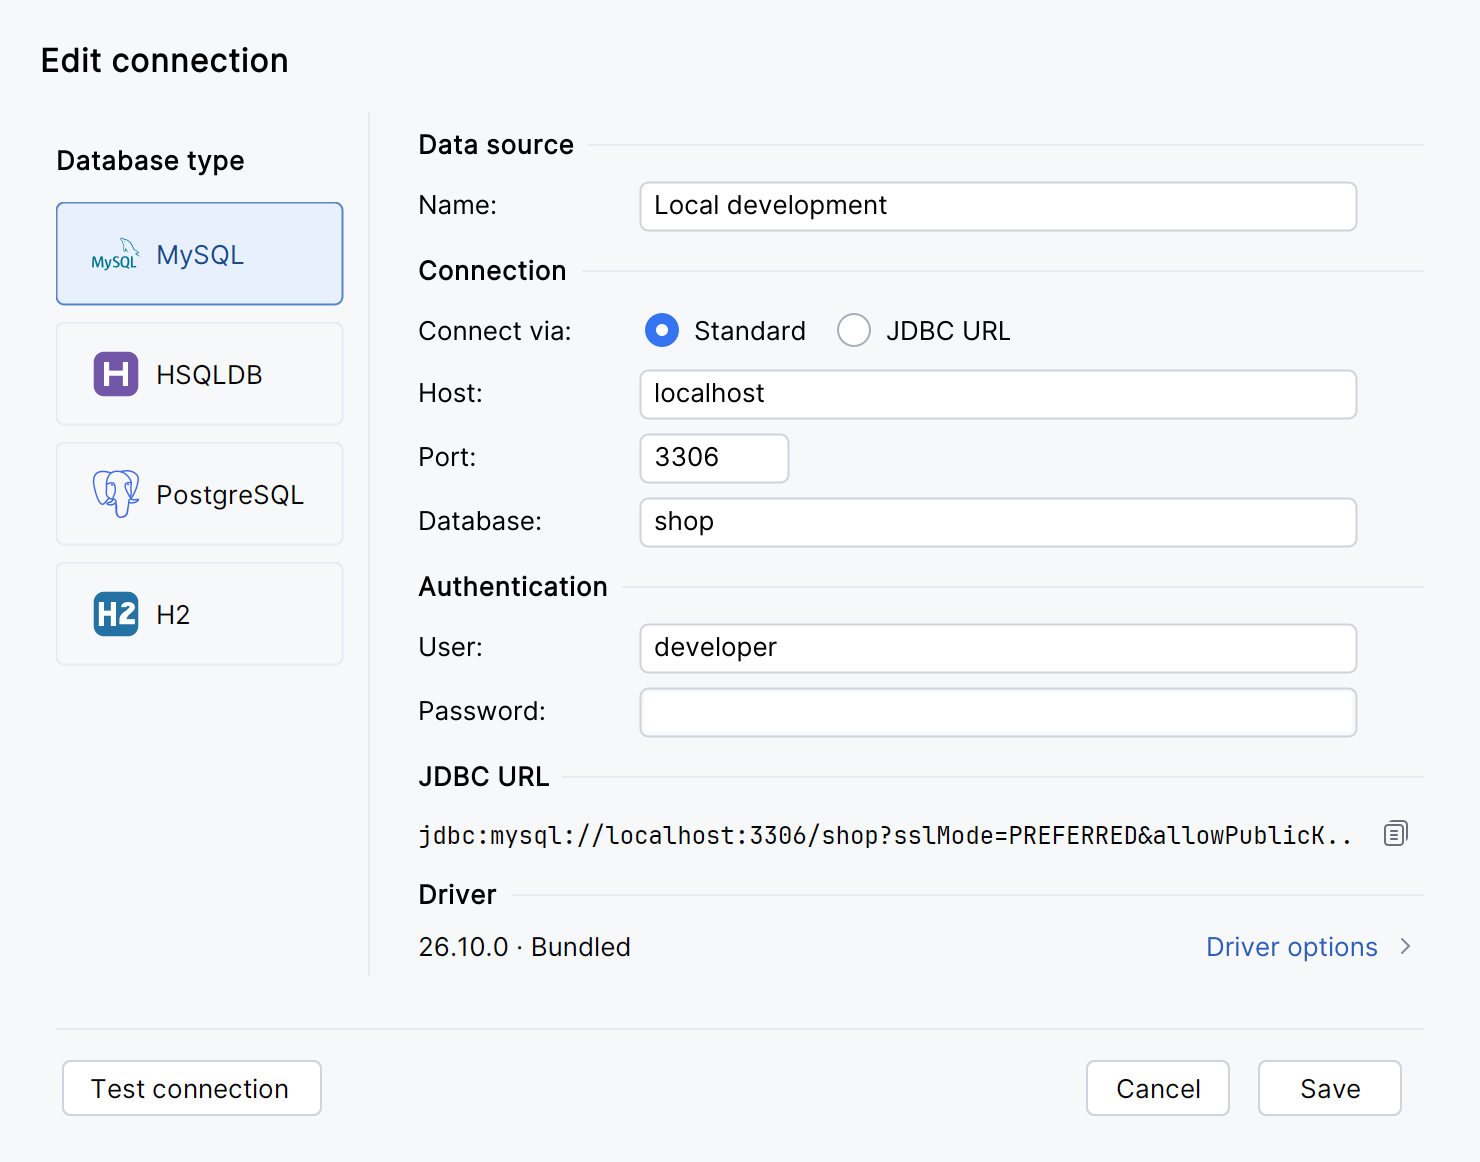
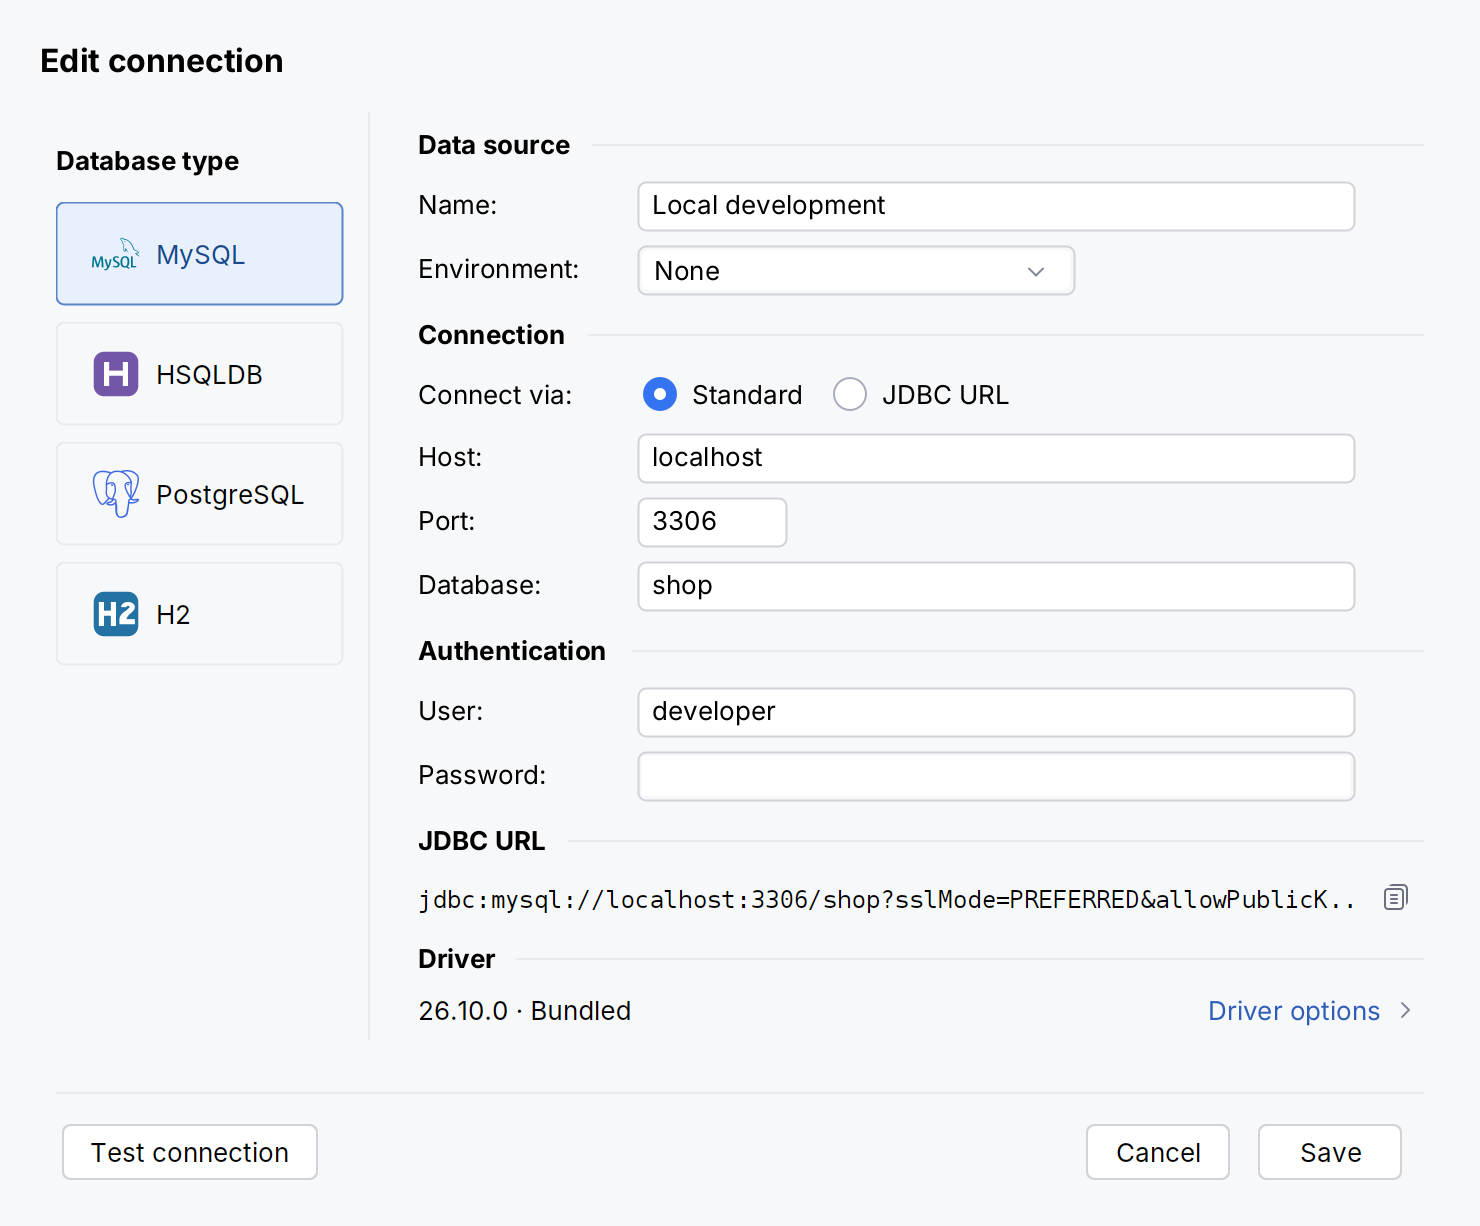
List SQL scripts in Recent and refresh the README explorer image
Running a script records it as a recent item; reopening it from the
explorer or Search Everywhere shows the script dialog with that file
chosen. The explorer-home and connection-dialog screenshots are
rendered on the IntelliJ 2026.2.3 Islands Light baseline.

Claude-Session: https://claude.ai/code/session_01VhXWEHxjUo9GEHXn9BveB5

diff --git a/src/main/java/com/segfault03/ideadb/state/RecentItemsState.java b/src/main/java/com/segfault03/ideadb/state/RecentItemsState.java
@@ -8,7 +8,7 @@ import java.util.ArrayList;
 import java.util.List;
 import java.util.Objects;
 
-/** Tables, views and consoles recently opened in this project, newest first. Local workspace state, never shared. */
+/** Tables, views, consoles and SQL scripts recently opened in this project, newest first. Local workspace state, never shared. */
 @State(name = "LatticeRecentItems", storages = @Storage(StoragePathMacros.WORKSPACE_FILE))
 public final class RecentItemsState implements PersistentStateComponent<RecentItemsState.State> {
     public static final int LIMIT = 50;
@@ -16,7 +16,7 @@ public final class RecentItemsState implements PersistentStateComponent<RecentIt
 
     public interface Listener { void recentItemsChanged(); }
 
-    public enum Kind { TABLE, CONSOLE }
+    public enum Kind { TABLE, CONSOLE, SCRIPT }
 
     public static final class Item {
         public Kind kind = Kind.TABLE;
@@ -28,6 +28,8 @@ public final class RecentItemsState implements PersistentStateComponent<RecentIt
         public String name;
         /** The table type the database reported, for example TABLE or VIEW. */
         public String tableType;
+        /** Absolute path of a script file; null otherwise. */
+        public String path;
 
         public Item() {}
 
@@ -44,10 +46,16 @@ public final class RecentItemsState implements PersistentStateComponent<RecentIt
             return item;
         }
 
+        public static Item script(String connectionId, String database, String path) {
+            Item item = new Item();
+            item.kind = Kind.SCRIPT; item.connectionId = connectionId; item.database = database; item.path = path;
+            return item;
+        }
+
         /** Two entries are the same place regardless of the table type reported when each was opened. */
         boolean samePlace(Item other) {
             return kind == other.kind && Objects.equals(connectionId, other.connectionId) && Objects.equals(database, other.database)
-                    && Objects.equals(catalog, other.catalog) && Objects.equals(schema, other.schema) && Objects.equals(name, other.name);
+                    && Objects.equals(catalog, other.catalog) && Objects.equals(schema, other.schema) && Objects.equals(name, other.name) && Objects.equals(path, other.path);
         }
     }
 

diff --git a/src/main/java/com/segfault03/ideadb/dialog/SqlScriptPanel.java b/src/main/java/com/segfault03/ideadb/dialog/SqlScriptPanel.java
@@ -258,6 +258,8 @@ public final class SqlScriptPanel extends JPanel implements Disposable {
     // ---- loading and checking ---------------------------------------------------------------------------------------
 
     private String loadedPath = "";
+    /** The absolute path of the loaded script, recorded as a recent item when it runs. */
+    private String loadedFile;
 
     private void loadIfChanged() {
         String text = path.getText().strip();
@@ -265,6 +267,7 @@ public final class SqlScriptPanel extends JPanel implements Disposable {
         loadedPath = text;
         resumeIndex = -1; // a different file never resumes another file's run
         fileFacts = "";
+        loadedFile = null;
         if (text.isEmpty()) { setScript(null, null); return; }
         File file = new File(text.startsWith("~" + File.separator) ? System.getProperty("user.home") + text.substring(1) : text);
         if (!file.isFile()) { setScript(null, "No file at this path"); return; }
@@ -281,6 +284,7 @@ public final class SqlScriptPanel extends JPanel implements Disposable {
                 charset = java.nio.charset.StandardCharsets.UTF_8;
             }
             fileFacts = size(file.length()) + ", " + charset.displayName();
+            loadedFile = file.getAbsolutePath();
             setScript(content.replace("\r\n", "\n"), null);
         } catch (IOException failure) {
             setScript(null, "Could not read the file: " + failure.getMessage());
@@ -369,6 +373,9 @@ public final class SqlScriptPanel extends JPanel implements Disposable {
         SqlScript running = new SqlScript(full.text(), full.statements().subList(from, full.statements().size()));
         runStart = from;
         String namespace = selectedNamespace();
+        if (project != null && !project.isDisposed() && loadedFile != null)
+            com.segfault03.ideadb.state.RecentItemsState.getInstance(project).record(
+                    com.segfault03.ideadb.state.RecentItemsState.Item.script(config.getId(), namespace, loadedFile));
         var options = new SqlScriptRunner.Options(stopOnError.isSelected(), singleTransaction.isSelected());
         SqlScriptRunner current = new SqlScriptRunner();
         runner = current;

diff --git a/src/main/java/com/segfault03/ideadb/ui/ExplorerRecentSection.java b/src/main/java/com/segfault03/ideadb/ui/ExplorerRecentSection.java
@@ -30,7 +30,7 @@ import java.util.Map;
 import java.util.function.Function;
 import java.util.stream.Collectors;
 
-/** The explorer's Recent section: the last tables, views and consoles opened in this project, above the connection tree. */
+/** The explorer's Recent section: the last tables, views, consoles and scripts opened in this project, above the connection tree. */
 final class ExplorerRecentSection extends JPanel {
     static final int VISIBLE = 4;
     private static final String COLLAPSED = "lattice.explorer.recentCollapsed";
@@ -40,11 +40,12 @@ final class ExplorerRecentSection extends JPanel {
         String title() { return com.segfault03.ideadb.search.LatticeSearch.recentTitle(item); }
         Icon icon() {
             if (item.kind == RecentItemsState.Kind.CONSOLE) return Icons.CONSOLE;
+            if (item.kind == RecentItemsState.Kind.SCRIPT) return Icons.SQL_FILE;
             return new TableMetadata(null, null, item.name, item.tableType).isView() ? Icons.VIEW : Icons.TABLE;
         }
         String detail() {
             String where = item.database == null || item.database.isBlank() ? connection.getName() : connection.getName() + " · " + item.database;
-            return title() + " in " + where;
+            return item.kind == RecentItemsState.Kind.SCRIPT ? item.path + " on " + where : title() + " in " + where;
         }
     }
 
@@ -190,6 +191,8 @@ final class ExplorerRecentSection extends JPanel {
         RecentItemsState.Item item = entry.item();
         DatabaseEditorManager editors = DatabaseEditorManager.getInstance(project);
         if (item.kind == RecentItemsState.Kind.CONSOLE) editors.openConsole(entry.connection(), item.database, null);
+        else if (item.kind == RecentItemsState.Kind.SCRIPT)
+            SwingUtilities.invokeLater(() -> com.segfault03.ideadb.dialog.SqlScriptDialog.show(project, entry.connection(), item.database, item.path));
         else editors.openTableData(entry.connection(), item.database, new TableMetadata(item.catalog, item.schema, item.name, item.tableType));
     }
 

diff --git a/src/main/java/com/segfault03/ideadb/search/LatticeSearchContributor.java b/src/main/java/com/segfault03/ideadb/search/LatticeSearchContributor.java
@@ -68,7 +68,11 @@ public final class LatticeSearchContributor implements SearchEverywhereContribut
         DatabaseEditorManager editors = DatabaseEditorManager.getInstance(project);
         switch (item.kind()) {
             case RECENT -> {
-                if (item.table() == null || console) editors.openConsole(item.connection(), item.database(), null);
+                RecentItemsState.Item recent = item.recent();
+                if (recent.kind == RecentItemsState.Kind.SCRIPT && !console) SwingUtilities.invokeLater(() -> {
+                    if (!project.isDisposed()) com.segfault03.ideadb.dialog.SqlScriptDialog.show(project, item.connection(), item.database(), recent.path);
+                });
+                else if (item.table() == null || console) editors.openConsole(item.connection(), item.database(), null);
                 else editors.openTableData(item.connection(), item.database(), copy(item.table()));
             }
             case TABLE -> {
@@ -114,7 +118,8 @@ public final class LatticeSearchContributor implements SearchEverywhereContribut
 
     private static Icon icon(LatticeSearch.Item item) {
         return switch (item.kind()) {
-            case RECENT -> item.table() == null ? Icons.CONSOLE : item.isView() ? Icons.VIEW : Icons.TABLE;
+            case RECENT -> item.recent().kind == RecentItemsState.Kind.SCRIPT ? Icons.SQL_FILE
+                    : item.table() == null ? Icons.CONSOLE : item.isView() ? Icons.VIEW : Icons.TABLE;
             case TABLE -> item.isView() ? Icons.VIEW : Icons.TABLE;
             case CONNECTION -> Icons.dataSource(item.type(), 16);
             case CONSOLE -> Icons.CONSOLE;

diff --git a/src/main/java/com/segfault03/ideadb/dialog/SqlScriptDialog.java b/src/main/java/com/segfault03/ideadb/dialog/SqlScriptDialog.java
@@ -46,6 +46,13 @@ public final class SqlScriptDialog extends DialogWrapper {
         new SqlScriptDialog(project, config, namespace).show();
     }
 
+    /** Opens the dialog with {@code scriptPath} already chosen, as when reopening a recent script. */
+    public static void show(@Nullable Project project, @NotNull ConnectionConfig config, @Nullable String namespace, @NotNull String scriptPath) {
+        SqlScriptDialog dialog = new SqlScriptDialog(project, config, namespace);
+        dialog.panel.path.setText(scriptPath);
+        dialog.show();
+    }
+
     @Override protected @Nullable JComponent createCenterPanel() {
         panel.setPreferredSize(JBUI.size(860, 700));
         return panel;

diff --git a/src/main/java/com/segfault03/ideadb/search/LatticeSearch.java b/src/main/java/com/segfault03/ideadb/search/LatticeSearch.java
@@ -28,9 +28,10 @@ public final class LatticeSearch {
 
     private LatticeSearch() {}
 
-    /** Title of a recent item: the schema-qualified table name, or Console. */
+    /** Title of a recent item: the schema-qualified table name, the script's file name, or Console. */
     public static String recentTitle(RecentItemsState.Item item) {
         if (item.kind == RecentItemsState.Kind.CONSOLE) return "Console";
+        if (item.kind == RecentItemsState.Kind.SCRIPT) return java.nio.file.Path.of(item.path).getFileName().toString();
         return item.schema == null || item.schema.isBlank() ? item.name : item.schema + "." + item.name;
     }
 

diff --git a/src/main/java/com/segfault03/ideadb/ui/EmptyConnectionPanel.java b/src/main/java/com/segfault03/ideadb/ui/EmptyConnectionPanel.java
@@ -27,7 +27,7 @@ final class EmptyConnectionPanel extends JPanel {
         heading.setFont(JBFont.label().asBold());
         stack(content, heading);
         content.add(Box.createVerticalStrut(JBUI.scale(4)));
-        WrappingLabel hint = new WrappingLabel("Recent tables and consoles will appear here and in Search Everywhere.");
+        WrappingLabel hint = new WrappingLabel("Recent tables, consoles and scripts will appear here and in Search Everywhere.");
         hint.setForeground(DatabaseUi.SECONDARY_TEXT);
         stack(content, hint);
         content.add(Box.createVerticalStrut(JBUI.scale(12)));

diff --git a/HANDOFF.md b/HANDOFF.md
@@ -34,19 +34,21 @@ Done (A+B):
 
 Done (C): `search/LatticeSearch` (pure ranking: recents, then cached tables by match degree capped at 50 and never repeating a recent table, then connections with an "Open SQL console" action, then data source names) and `LatticeSearchContributor` (separate Lattice tab; Enter opens, Alt+Enter console; connection selects it via `DatabaseMainPanel.revealConnection`). Previewed with the production renderer; the real popup is not captured yet.
 
+Done: SQL scripts become recent items when a run starts (`SqlScriptPanel.execute`); reopening shows `SqlScriptDialog` with the file chosen.
+
 Done (D): `model/Environment` and `ConnectionConfig.environment` (Environment row in the connection dialog); the tree row appends "Unreachable" (error color) when the connection's first child is an error node and it is not connected, then the tag in `DatabaseUi.environmentColor` (local omitted); tooltip carries both. Search Everywhere connection context adds the tag.
 
 Deviations from concept 04 (tell the owner):
 - At narrow widths tree rows clip the tag at the edge (the concept flagged this); the tooltip carries it. No connected/checking word is shown: the plug icon and bold name already say connected, and Lattice never pings.
 - Search Everywhere puts the muted context right after the title (platform convention), not right-aligned.
 - Recent is fixed above the tree and does not scroll with it (matches the concept's long-list note, not a single scroll).
-- Scripts are not recorded as recent items yet (the concept lists them).
 - Only the four existing engines; MariaDB and SQLite appear when their providers exist.
 - The tree keeps its visible "Data Sources" root; tags and status in tree rows are part of D.
 - The arrival motion (new connection rises into the tree) waits for the owner to confirm the motion defaults.
 
 Remaining for R7:
-- `screenshots/explorer-home.png` is the old welcome image renamed; re-render the featured images on IntelliJ 2026.2.3 Islands Light (`python scripts/ui-preview.py --ide-home <idea-2026.2.3>`).
+- Owner review of the built home (then the design-primer `accept` step: delete `design/welcome-home/`, record the direction and motion in `DESIGN.md`).
+- Real-IDE capture of the Search Everywhere tab and the Recent section (`uiScreenshotTest`); only headless renders exist.
 
 ## Waiting for the owner
 - Motion defaults proposed in the viewer (quiet, ease-out-quart, 150 ms state changes, one focal moment when the first connection arrives); record in `DESIGN.md` once the owner confirms.
@@ -66,6 +68,7 @@ Remaining for R7:
 See `ROADMAP.md` → Open questions (Settings Sync roaming, minimum IDE, licensing).
 
 ## Notes for the next session
+- Baseline renders in a cloud session: the IDE and JDK 25 download with `Dependencies.ide(version='2026.2.3')` / `java(major=25)` into `~/.cache/lattice-development`; Gradle needs `org.gradle.java.installations.paths=<jdk-25>` in `~/.gradle/gradle.properties` (a `-P` flag also works; `GRADLE_OPTS` and `ORG_GRADLE_PROJECT_` do not). Re-rendering unchanged screens here shifts glyphs by a pixel; commit only the images whose screens changed.
 - Real-IDE captures: `LATTICE_UI_SKIP_REMOTE_DOWNLOADS=true LATTICE_UI_MAVEN_REPOSITORY="$PWD/build/ui-test-maven/repository" ./scripts/linux/capture-intellij-ui.sh -Plattice.ui.review=true -Plattice.ui.output=$PWD/.temp/reviews/<name>`; add `-Plattice.ui.theme=ExperimentalLight`, `-Plattice.ui.scale=2.0` or a focused flag (`-Plattice.ui.cellDetailsOnly=true`, `sqlEditorOnly`, `sqlScriptOnly`, `explorerSearchOnly`, `sourceFilterOnly`). Remote driver downloads fail from cloud sessions (Maven Central).
 - `ide.ui.scale=2.0` in the harness scales components but not IDE fonts; font scale 2.0 is still untested.
 - The UI-scale-2.0 full run fails at an "Available drivers" combo wait: at 2x the 1920x1080 Xvfb screen is only 960x540 logical, so popups open off-screen. `scripts/linux/capture-intellij-ui.sh` fixes the Xvfb screen at 1920x1080; scaled runs need it enlarged (for example 3840x2160).

diff --git a/docs/CHANGELOG.md b/docs/CHANGELOG.md
@@ -23,7 +23,7 @@ Patch notes are selected by the exact release version, including prerelease suff
 
 ### Explorer and console
 
-- Lattice no longer opens a welcome tab. The explorer is home: with no connections it links each data source to its connection dialog, and a collapsible **Recent** section above the tree reopens the last tables, views and consoles of the project. The explorer's help button opens What's New.
+- Lattice no longer opens a welcome tab. The explorer is home: with no connections it links each data source to its connection dialog, and a collapsible **Recent** section above the tree reopens the last tables, views, consoles and SQL scripts of the project. The explorer's help button opens What's New.
 - Search Everywhere has a **Lattice** tab for recent items, tables in loaded schemas and connections. Enter opens; Alt+Enter opens a SQL console.
 - Connections can be tagged local, development, staging or production; the explorer shows the tag beside the connection, and marks a connection whose last open failed as Unreachable.
 - Run SQL script files from a connection, schema or table's context menu, the SQL console toolbar or a table's options menu. The dialog checks the script offline against the cached schema, previews it with problems marked on their lines, and runs it statement by statement with a run log of each result. Choose to stop or continue after an error, or run everything in one transaction that rolls back on error. MySQL `DELIMITER` lines are supported.

diff --git a/docs/UI_PREVIEW.md b/docs/UI_PREVIEW.md
@@ -53,10 +53,11 @@ render the scenes on the compile baseline to keep them working, and write nothin
 
 Lattice opens no editor tab of its own. With no connections, the explorer lists
 one link per data source, each opening the connection dialog for that source.
-Once tables, views or consoles have been opened, a collapsible **Recent** section
-above the tree shows the last four, with a link to the rest; double-click or
-Enter reopens an item, Delete removes it. Recent items are stored per project in
-the workspace file and never shared.
+Once tables, views or consoles have been opened, or SQL scripts run, a
+collapsible **Recent** section above the tree shows the last four, with a link
+to the rest; double-click or Enter reopens an item (a script reopens the script
+dialog with that file), Delete removes it. Recent items are stored per project
+in the workspace file and never shared.
 
 Each connection can name its environment (none, local, development, staging or
 production) in the connection dialog. The explorer shows the tag beside the
